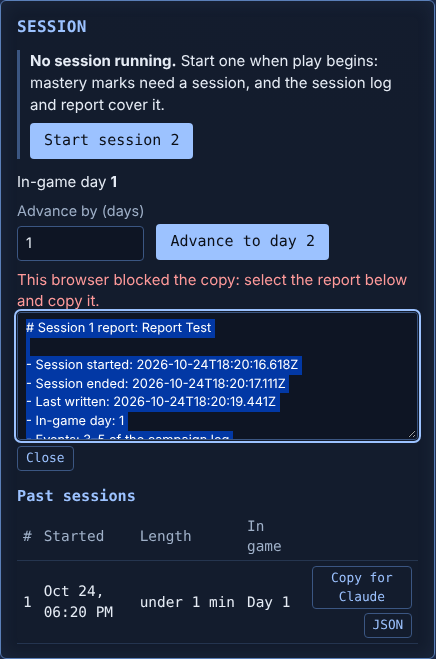
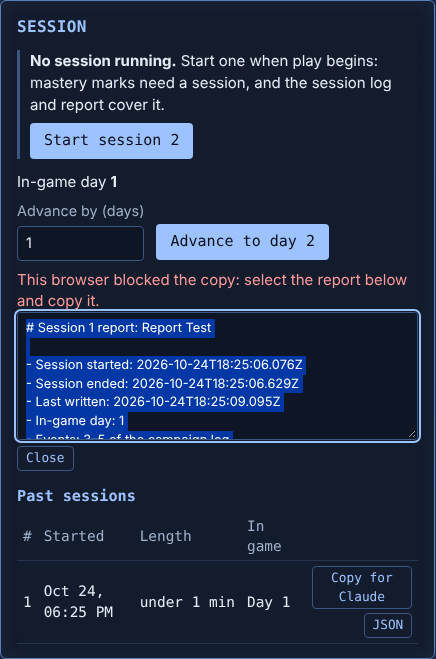
fix(M9.1): review round 2: the manual-copy textarea is selected once; M9.1 checked; review log; backlog Lows
Claude-Session: https://claude.ai/code/session_013GxBk2ABd9SdUDHD36iZdY

Changed region(s): [[0.5069, 0.5463, 0.7156, 0.6373], [0.1789, 0.9105, 0.2087, 0.9408]]

diff --git a/apps/web/src/gm/SessionPanel.tsx b/apps/web/src/gm/SessionPanel.tsx
@@ -1,4 +1,4 @@
-import { useState, type FormEvent } from 'react';
+import { useEffect, useRef, useState, type FormEvent } from 'react';
 import type { CampaignState } from '@the-system/engine';
 import { friendlyError } from '../format';
 import type { LiveClient } from '../live';
@@ -62,6 +62,9 @@ export function SessionPanel({
   };
   // A copy the browser refused: the report shown for the GM to copy by hand.
   const [manual, setManual] = useState<{ n: number; text: string } | null>(null);
+  const manualRef = useRef<HTMLTextAreaElement>(null);
+  // Selected once when it appears, not again on every live update.
+  useEffect(() => manualRef.current?.select(), [manual]);
   const copied = (n: number) =>
     setOutcome({ kind: 'ok', text: `Session ${n} report copied: paste it into Claude` });
   /**
@@ -227,7 +230,7 @@ export function SessionPanel({
             readOnly
             aria-label={`Session ${manual.n} report`}
             value={manual.text}
-            ref={(el) => el?.select()}
+            ref={manualRef}
             onFocus={(e) => e.currentTarget.select()}
           />
           <button type="button" className="secondary small" onClick={() => setManual(null)}>

diff --git a/docs/REVIEW-LOG.md b/docs/REVIEW-LOG.md
@@ -807,3 +807,10 @@
 - M1 a page reloaded with sound remembered on never resumed its AudioContext (created before any gesture → suspended), so every sound that session was silent; confirmed by reading `playSound` (no `resume`). Fixed: `playSound` resumes a suspended context, and the player page unlocks audio on the first pointerdown/keydown while sound is on; unit test with a suspended context.
 - Low 1 fixed: platinum vs diamond ΔE ≥ 10 now asserted in themes.test.ts. Lows 2–8 to the QUALITY backlog (evolve-ring brightness on dull metals, DING over the swell, count-keyed selection cue, second evolution within 2.4s, M8.1 shot names, slider/evolution dialog not in the keyboard sweep, PNG churn).
 - One Medium, no High: no round 2 (LOOP §6.4); fix verified locally (check 1,146 unit; M3.3, M8.2–M8.4, M8.A e2e green). Box checked.
+
+## 2026-10-24 · M9.1 Session report · reviewer sonnet (worktree), rounds 1–2
+- Round 1 at 5b071c8 (range 3a630aa...5b071c8): 1 High, 2 Medium, 4 Low.
+- H1 the new report column made the phone-width GM console scroll sideways (M4.3's 390px check, 1px after three sessions); reproduced. Fixed: length column hidden ≤600px, report buttons stacked.
+- M1 the copy ran after `await fetch`, so Safari/Firefox could refuse it (activation spent). Fixed: in a secure context the `ClipboardItem` write starts inside the click, fed by the fetch; otherwise the legacy copy; if that is refused too the report is shown selected in a textarea.
+- M2 the fallback e2e did not prove the fallback. Fixed: it removes `navigator.clipboard`, counts `execCommand('copy')` (exactly 1) and reads the clipboard from another page; a new test covers the refused-copy textarea.
+- Round 2 at 884f0c5: 0 High, 0 Medium, 4 Low. Low 2 fixed (the textarea is selected once in an effect, not on every render). Lows 1, 3, 4 to the QUALITY backlog. Box checked.

diff --git a/docs/QUALITY.md b/docs/QUALITY.md
@@ -264,3 +264,4 @@ reviewers ran 15–20 minutes each in the background.
 - UX (M8.1 review): diamond animates only on the status ring; the other windows' frames are static; the `.player-grid .window:not(.skill-detail)` rule (0,3,0) outranks single-class border variants on player windows; the phone full-page theme shot is too tall to judge the frame.
 - Tests/UX (M8.2 review): `useEvolutionFlash` has no hook test (character switch, second evolution within 2.4s); an `undefined` grade is stored in `seen`, so an evolution landing during a view gap would not play; evolving into diamond swaps `prism` for `evolve-ring` for 2.4s; the M8.2 e2e reads styles inside the 2.4s window (could flake under heavy load).
 - UX (M8.A review): the evolve ring starts at brightness(1.8), so dull bronze reads as gold for the first second of G→F (`themes.css` evolve-ring); a per-theme boost would keep dull metals dull. The evolution DING plays over the swell (consider muting the chime while `evolving`). The selection cue keys on the pending count (re-offer 1→1, two levels at once 0→2). The M8.1 `<metal>-1366x768.png` names are status-window clips, not viewports. The M8.3 keyboard sweep runs with sound off, so the volume slider and the evolution dialog's focus trap are not exercised. A full e2e run rewrites ~17 committed PNGs (animation phase).
+- UX/tests (M9.1 review): the M9.1 shots are Session-panel clips named by viewport (like M4.3's), and the refused-copy textarea has no 390px shot; after a rejected `clipboard.write` the legacy copy runs after an await (usually still within Chrome's activation window, else the textarea shows; untested); M4.3/M9.1 PNGs change on every e2e run (timestamps, ports, QR).

diff --git a/docs/ROADMAP.md b/docs/ROADMAP.md
@@ -644,7 +644,7 @@ work: Q44–Q48 and Q52.
 
 ## M9 — Claude bridge and content packs
 
-- [ ] **M9.1 Session report.** Full markdown + JSON report at session end
+- [x] **M9.1 Session report.** Full markdown + JSON report at session end
   (builds on M2.4); "Copy for Claude" button.
 - [ ] **M9.2 Content format.** JSON schemas for skill offers, skills, items,
   titles, evolution options, bestiary entries; `docs/CONTENT-FORMAT.md` with
